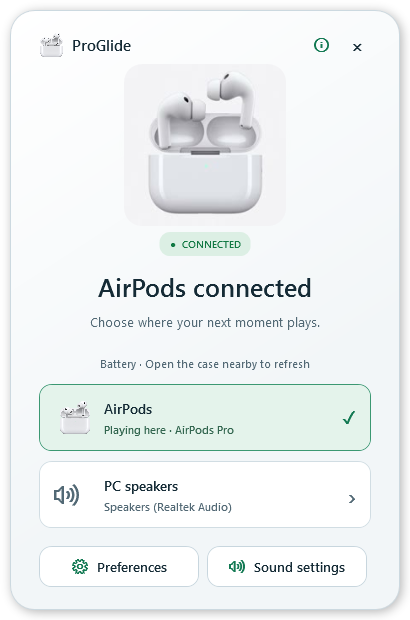
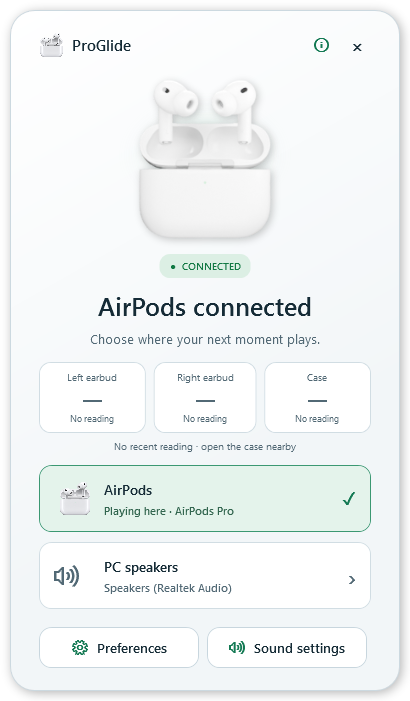
Polish transparent front animation, compact preferences and persistent battery cards

diff --git a/Program.cs b/Program.cs
@@ -159,8 +159,7 @@ namespace AirPodsSwitch
         void Populate(Popup view)
         {
             var reading = battery.Current();
-            view.Battery.Visibility = preferences.TrackBattery ? Visibility.Visible : Visibility.Collapsed;
-            view.Battery.Text = reading == null ? battery.Status : "Nearby AirPods battery · " + reading.Display();
+            view.Batteries.Update(reading, preferences.TrackBattery, battery.Status);
             var devices = audio.List(); string active = audio.Default(1);
             var pods = devices.Where(e => Matches(e, preferences)).ToList();
             var speakers = devices.FirstOrDefault(e => e.Id == preferences.SpeakersId);
@@ -196,15 +195,14 @@ namespace AirPodsSwitch
         internal void Settings()
         {
             if (settings != null) { settings.Activate(); return; }
-            settings = new Window { Title = "ProGlide · Preferences", Width = 540, Height = Math.Min(880, SystemParameters.WorkArea.Height - 40), MinWidth = 480, MinHeight = 560, WindowStartupLocation = WindowStartupLocation.CenterScreen };
+            settings = new Window { Title = "ProGlide · Preferences", Width = 560, Height = Math.Min(670, SystemParameters.WorkArea.Height - 40), MinWidth = 500, MinHeight = 540, WindowStartupLocation = WindowStartupLocation.CenterScreen };
             Theme.Window(settings);
-            var stack = new StackPanel { Margin = new Thickness(32, 24, 32, 32) };
+            var stack = new StackPanel { Margin = new Thickness(24, 18, 24, 20) };
             settings.Content = new ScrollViewer { Content = stack, VerticalScrollBarVisibility = ScrollBarVisibility.Auto };
-            var brand = new DockPanel(); var art = Theme.Product(66); DockPanel.SetDock(art, Dock.Right); brand.Children.Add(art);
+            var brand = new DockPanel(); var art = Theme.Product(44); DockPanel.SetDock(art, Dock.Right); brand.Children.Add(art);
             var heading = new StackPanel(); heading.Children.Add(Theme.Wordmark(15));
-            var pageTitle = Theme.Text("Make it yours.", 30, Theme.Ink); pageTitle.FontWeight = FontWeights.SemiBold; pageTitle.Margin = new Thickness(0, 6, 0, 0); heading.Children.Add(pageTitle); brand.Children.Add(heading); stack.Children.Add(brand);
-            var intro = Theme.Text("Your devices. Your listening flow.", 13, Theme.Muted); intro.Margin = new Thickness(0, 8, 0, 12); stack.Children.Add(intro);
-            Action<string> label = text => stack.Children.Add(new TextBlock { Text = text, Foreground = Theme.Muted, FontSize = 12, FontWeight = FontWeights.SemiBold, Margin = new Thickness(0, 19, 0, 8), TextWrapping = TextWrapping.Wrap });
+            var pageTitle = Theme.Text("Preferences", 25, Theme.Ink); pageTitle.FontWeight = FontWeights.SemiBold; pageTitle.Margin = new Thickness(0, 3, 0, 0); heading.Children.Add(pageTitle); brand.Children.Add(heading); stack.Children.Add(brand);
+            Action<string> label = text => stack.Children.Add(new TextBlock { Text = text, Foreground = Theme.Muted, FontSize = 11, FontWeight = FontWeights.SemiBold, Margin = new Thickness(0, 11, 0, 6), TextWrapping = TextWrapping.Wrap });
             List<Endpoint> devices;
             try { devices = audio.List(); } catch (Exception e) { MessageBox.Show(e.Message); settings = null; return; }
             label("AIRPODS OUTPUT");
@@ -212,9 +210,10 @@ namespace AirPodsSwitch
             podChoices.AddRange(devices);
             if (!string.IsNullOrEmpty(preferences.AirPodsId) && !devices.Any(d => d.Id == preferences.AirPodsId)) podChoices.Add(new Endpoint { Id = preferences.AirPodsId, Name = "Saved AirPods (currently unavailable)" });
             var pods = new ComboBox { ItemsSource = podChoices, SelectedItem = podChoices.FirstOrDefault(d => d.Id == preferences.AirPodsId) }; Theme.Selector(pods); stack.Children.Add(pods);
-            label("DETECT BY NAME");
-            var match = new TextBox { Text = preferences.Match, Padding = new Thickness(11, 9, 11, 9), Background = Theme.Surface, Foreground = Theme.Ink, CaretBrush = Theme.Mint, BorderBrush = Theme.Brush("#34434E"), SelectionBrush = Theme.Brush("#385D4F") }; stack.Children.Add(match);
-            var hint = Theme.Text("Used only when “Detect by name” is selected above.", 11, Theme.Muted); hint.Margin = new Thickness(0, 6, 0, 0); stack.Children.Add(hint);
+            var matching = new StackPanel();
+            var match = new TextBox { Text = preferences.Match, Padding = new Thickness(11, 7, 11, 7), Background = Theme.Surface, Foreground = Theme.Ink, CaretBrush = Theme.Mint, BorderBrush = Theme.Brush("#34434E"), SelectionBrush = Theme.Brush("#385D4F") }; matching.Children.Add(match);
+            var hint = Theme.Text("Used when “Detect by name” is selected.", 10, Theme.Muted); hint.Margin = new Thickness(0, 5, 0, 0); matching.Children.Add(hint);
+            var advanced = new Expander { Header = "Name matching (optional)", Foreground = Theme.Muted, FontSize = 11, Content = matching, Margin = new Thickness(0, 8, 0, 0), IsExpanded = false }; stack.Children.Add(advanced);
             label("PC SPEAKERS");
             var choices = new List<Endpoint> { new Endpoint { Id = "", Name = "Choose an output…" } }; choices.AddRange(devices);
             if (!string.IsNullOrEmpty(preferences.SpeakersId) && !devices.Any(d => d.Id == preferences.SpeakersId)) choices.Add(new Endpoint { Id = preferences.SpeakersId, Name = "Saved speakers (currently unavailable)" });
@@ -223,13 +222,13 @@ namespace AirPodsSwitch
             var auto = new CheckBox { Content = "Switch to AirPods when they connect", Foreground = Theme.Ink, IsChecked = preferences.AutoSwitch, Margin = new Thickness(0, 4, 0, 6) }; Theme.Toggle(auto); stack.Children.Add(auto);
             var startup = new CheckBox { Content = "Launch quietly when I sign in", Foreground = Theme.Ink, IsChecked = StartupEnabled() }; Theme.Toggle(startup); stack.Children.Add(startup);
             var motion = new CheckBox { Content = "Animate connection popup", Foreground = Theme.Ink, IsChecked = preferences.AnimatePopup, Margin = new Thickness(0, 6, 0, 0), ToolTip = "ProGlide spring animation. Turn off for reduced motion." }; Theme.Toggle(motion); stack.Children.Add(motion);
-            label("APPEARANCE");
-            var appearance = new ComboBox { ItemsSource = new[] { "Dark", "Light" }, SelectedItem = preferences.ThemeName == "Light" ? "Light" : "Dark" }; Theme.Selector(appearance); stack.Children.Add(appearance);
+            var appearanceRow = new DockPanel { Margin = new Thickness(0, 10, 0, 0) };
+            var appearance = new ComboBox { ItemsSource = new[] { "Dark", "Light" }, SelectedItem = preferences.ThemeName == "Light" ? "Light" : "Dark", Width = 160 }; Theme.Selector(appearance); DockPanel.SetDock(appearance, Dock.Right); appearanceRow.Children.Add(appearance); var appearanceLabel = Theme.Text("Appearance", 13, Theme.Ink); appearanceLabel.VerticalAlignment = VerticalAlignment.Center; appearanceRow.Children.Add(appearanceLabel); stack.Children.Add(appearanceRow);
             AppearanceSelector = appearance;
             appearance.SelectionChanged += (s, e) => { Theme.Apply((string)appearance.SelectedItem); };
             var tracking = new CheckBox { Content = "Read nearby AirPods battery", Foreground = Theme.Ink, IsChecked = preferences.TrackBattery, Margin = new Thickness(0, 14, 0, 0), ToolTip = "Nearby broadcasts report in 10% steps and may belong to another pair. No Bluetooth address is saved." }; Theme.Toggle(tracking); stack.Children.Add(tracking);
-            var note = Theme.Text("Changes your playback output, including calls. Disconnecting lets Windows choose a fallback.", 12, Theme.Muted); note.Margin = new Thickness(0, 20, 0, 16); stack.Children.Add(note);
-            stack.Children.Add(Theme.Button("Save preferences", () =>
+            var note = Theme.Text("Playback output applies to media and calls.", 11, Theme.Muted); note.Margin = new Thickness(0, 12, 0, 12); stack.Children.Add(note);
+            var save = Theme.Button("Save preferences", () =>
             {
                 try
                 {
@@ -244,8 +243,9 @@ namespace AirPodsSwitch
                     preferences = next; battery.SetEnabled(preferences.TrackBattery); initialized = false; Refresh(); settings.Close();
                 }
                 catch (Exception e) { MessageBox.Show("Could not save settings: " + e.Message); }
-            }, true));
-            var aboutButton = Theme.IconButton("About ProGlide", "\uE946", About); aboutButton.Margin = new Thickness(0, 10, 0, 0); stack.Children.Add(aboutButton);
+            }, true);
+            var footer = new Grid(); footer.ColumnDefinitions.Add(new ColumnDefinition { Width = new GridLength(160) }); footer.ColumnDefinitions.Add(new ColumnDefinition());
+            var aboutButton = Theme.IconButton("About", "\uE946", About); aboutButton.Margin = new Thickness(0); footer.Children.Add(aboutButton); save.Margin = new Thickness(8, 0, 0, 0); Grid.SetColumn(save, 1); footer.Children.Add(save); stack.Children.Add(footer);
             settings.Closed += (s, e) => { Theme.Apply(preferences.ThemeName); settings = null; }; settings.Show();
         }
         const string RunKey = "Software\\Microsoft\\Windows\\CurrentVersion\\Run";
@@ -284,8 +284,8 @@ namespace AirPodsSwitch
         public readonly StackPanel Outputs = new StackPanel();
         public readonly StackPanel Footer = new StackPanel { Orientation = Orientation.Horizontal };
         public readonly TextBlock Connection = new TextBlock { Text = "○  NOT CONNECTED", Foreground = Theme.Muted, FontSize = 10, FontWeight = FontWeights.SemiBold };
-        public readonly TextBlock Status = new TextBlock { Foreground = Theme.Muted, FontSize = 13, TextWrapping = TextWrapping.Wrap, TextAlignment = TextAlignment.Center, Margin = new Thickness(14, 9, 14, 24), LineHeight = 20 };
-        public readonly TextBlock Battery = new TextBlock { Foreground = Theme.Muted, FontSize = 11, TextWrapping = TextWrapping.Wrap, TextAlignment = TextAlignment.Center, Margin = new Thickness(0, 0, 0, 14), ToolTip = "Nearby broadcasts: device identity is unverified. Levels arrive in 10% steps and expire after 60 seconds. Open the case nearby to refresh." };
+        public readonly TextBlock Status = new TextBlock { Foreground = Theme.Muted, FontSize = 13, TextWrapping = TextWrapping.Wrap, TextAlignment = TextAlignment.Center, Margin = new Thickness(10, 7, 10, 12), LineHeight = 20 };
+        public readonly BatteryView Batteries = new BatteryView();
         readonly AirPodsCase caseArt = new AirPodsCase();
         Border badge;
         bool connected;
@@ -321,13 +321,13 @@ namespace AirPodsSwitch
             DockPanel.SetDock(close, Dock.Right); header.Children.Add(close);
             var info = Theme.Button("", () => { if (about != null) about(); }, false); info.Content = Theme.Glyph("\uE946", 15); info.Width = 30; info.Height = 28; info.Padding = new Thickness(0); info.Margin = new Thickness(0, 0, 6, 0); info.BorderThickness = new Thickness(0); info.Background = Brushes.Transparent; info.ToolTip = "About ProGlide"; System.Windows.Automation.AutomationProperties.SetName(info, "About ProGlide"); DockPanel.SetDock(info, Dock.Right); header.Children.Add(info);
             header.Children.Add(Theme.Wordmark(15)); content.Children.Add(header);
-            var hero = new Grid { Height = 164, Margin = new Thickness(0, 4, 0, 5) };
+            var hero = new Grid { Height = 190, Margin = new Thickness(0, 1, 0, 4) };
             hero.Children.Add(new System.Windows.Shapes.Ellipse { Width = 180, Height = 130, Fill = new RadialGradientBrush(Color.FromArgb(90, 85, 155, 128), Colors.Transparent) });
-            var product = new Viewbox { Child = caseArt, Width = 180, Height = 164, Stretch = Stretch.Uniform }; hero.Children.Add(product); content.Children.Add(hero);
-            badge = new Border { Child = Connection, HorizontalAlignment = HorizontalAlignment.Center, Background = Theme.Brush("#3F2229"), CornerRadius = new CornerRadius(10), Padding = new Thickness(10, 6, 10, 6), Margin = new Thickness(0, 0, 0, 13) }; content.Children.Add(badge);
+            var product = new Viewbox { Child = caseArt, Width = 240, Height = 190, Stretch = Stretch.Uniform, Effect = new System.Windows.Media.Effects.DropShadowEffect { BlurRadius = 12, ShadowDepth = 3, Opacity = .22, Color = Colors.Black, RenderingBias = System.Windows.Media.Effects.RenderingBias.Quality } }; hero.Children.Add(product); content.Children.Add(hero);
+            badge = new Border { Child = Connection, HorizontalAlignment = HorizontalAlignment.Center, Background = Theme.Brush("#3F2229"), CornerRadius = new CornerRadius(10), Padding = new Thickness(10, 6, 10, 6), Margin = new Thickness(0, 0, 0, 10) }; content.Children.Add(badge);
             SetConnection(title == "AirPods connected");
             var headline = Theme.Text(title, 25, Theme.Ink); headline.FontWeight = FontWeights.SemiBold; headline.TextAlignment = TextAlignment.Center; content.Children.Add(headline);
-            content.Children.Add(Status); content.Children.Add(Battery); content.Children.Add(Outputs); content.Children.Add(Footer);
+            content.Children.Add(Status); content.Children.Add(Batteries); content.Children.Add(Outputs); content.Children.Add(Footer);
             Footer.Margin = new Thickness(0, 8, 0, 0);
             var background = new LinearGradientBrush(); background.StartPoint = new Point(0, 0); background.EndPoint = new Point(1, 1);
             var topColor = new GradientStop { Offset = 0 }; System.Windows.Data.BindingOperations.SetBinding(topColor, GradientStop.ColorProperty, new System.Windows.Data.Binding("Color") { Source = Theme.Brush("#202B30") }); background.GradientStops.Add(topColor);

diff --git a/Battery.cs b/Battery.cs
@@ -11,6 +11,7 @@ namespace AirPodsSwitch
         public int Left = -1, Right = -1, Case = -1;
         public bool LeftCharging, RightCharging, CaseCharging;
         public DateTime Seen;
+        public DateTime LeftSeen, RightSeen, CaseSeen;
         public short Signal;
         public string Model;
         static string Value(int value, bool charging) { return value < 0 ? "—" : value + "%" + (charging ? " ⚡" : ""); }
@@ -55,6 +56,13 @@ namespace AirPodsSwitch
                         if (!enabled) return;
                         // Broadcast addresses can rotate. This cannot prove ownership of the nearby pair.
                         if (latest != null && address != args.BluetoothAddress && (DateTime.UtcNow - latest.Seen).TotalSeconds < 10 && reading.Signal < latest.Signal + 8) continue;
+                        if (latest != null && address == args.BluetoothAddress && latest.Model == reading.Model)
+                        {
+                            var now = DateTime.UtcNow;
+                            if (reading.Left < 0 && (now - latest.LeftSeen).TotalSeconds <= 60) { reading.Left = latest.Left; reading.LeftSeen = latest.LeftSeen; reading.LeftCharging = latest.LeftCharging; }
+                            if (reading.Right < 0 && (now - latest.RightSeen).TotalSeconds <= 60) { reading.Right = latest.Right; reading.RightSeen = latest.RightSeen; reading.RightCharging = latest.RightCharging; }
+                            if (reading.Case < 0 && (now - latest.CaseSeen).TotalSeconds <= 60) { reading.Case = latest.Case; reading.CaseSeen = latest.CaseSeen; reading.CaseCharging = latest.CaseCharging; }
+                        }
                         latest = reading; address = args.BluetoothAddress;
                     }
                 }
@@ -63,7 +71,17 @@ namespace AirPodsSwitch
         }
         public BatteryReading Current()
         {
-            lock (gate) return enabled && latest != null && (DateTime.UtcNow - latest.Seen).TotalSeconds <= 60 ? latest : null;
+            lock (gate)
+            {
+                if (!enabled || latest == null || (DateTime.UtcNow - latest.Seen).TotalSeconds > 60) return null;
+                var now = DateTime.UtcNow;
+                return new BatteryReading { Model = latest.Model, Signal = latest.Signal, Seen = latest.Seen,
+                    Left = (now - latest.LeftSeen).TotalSeconds <= 60 ? latest.Left : -1,
+                    Right = (now - latest.RightSeen).TotalSeconds <= 60 ? latest.Right : -1,
+                    Case = (now - latest.CaseSeen).TotalSeconds <= 60 ? latest.Case : -1,
+                    LeftCharging = latest.LeftCharging, RightCharging = latest.RightCharging, CaseCharging = latest.CaseCharging,
+                    LeftSeen = latest.LeftSeen, RightSeen = latest.RightSeen, CaseSeen = latest.CaseSeen };
+            }
         }
         public static BatteryReading Decode(byte[] data, short signal)
         {
@@ -85,6 +103,9 @@ namespace AirPodsSwitch
                 LeftCharging = (charging & (swapped ? 2 : 1)) != 0, RightCharging = (charging & (swapped ? 1 : 2)) != 0, CaseCharging = (charging & 4) != 0,
                 Seen = DateTime.UtcNow, Signal = signal
             };
+            result.LeftSeen = result.Left >= 0 ? result.Seen : DateTime.MinValue;
+            result.RightSeen = result.Right >= 0 ? result.Seen : DateTime.MinValue;
+            result.CaseSeen = result.Case >= 0 ? result.Seen : DateTime.MinValue;
             return result.Left < 0 && result.Right < 0 && result.Case < 0 ? null : result;
         }
         static int Percent(int value) { return value <= 10 ? value * 10 : -1; }

diff --git a/BatteryView.cs b/BatteryView.cs
@@ -1,0 +1,45 @@
+using System;
+using System.Windows;
+using System.Windows.Controls;
+
+namespace AirPodsSwitch
+{
+    public sealed class BatteryView : StackPanel
+    {
+        readonly TextBlock[] values = new TextBlock[3];
+        readonly TextBlock[] details = new TextBlock[3];
+        readonly TextBlock caption = Theme.Text("Waiting for a battery reading…", 10, Theme.Muted);
+        public BatteryView()
+        {
+            Margin = new Thickness(0, 0, 0, 13);
+            var grid = new Grid();
+            var names = new[] { "Left earbud", "Right earbud", "Case" };
+            for (int i = 0; i < 3; i++)
+            {
+                grid.ColumnDefinitions.Add(new ColumnDefinition());
+                var stack = new StackPanel { Margin = new Thickness(10, 8, 10, 8) };
+                var name = Theme.Text(names[i], 10, Theme.Muted); name.TextAlignment = TextAlignment.Center; stack.Children.Add(name);
+                values[i] = Theme.Text("—", 19, Theme.Muted); values[i].FontWeight = FontWeights.SemiBold; values[i].TextAlignment = TextAlignment.Center; values[i].Margin = new Thickness(0, 3, 0, 1); stack.Children.Add(values[i]);
+                details[i] = Theme.Text("No reading", 9, Theme.Muted); details[i].TextAlignment = TextAlignment.Center; stack.Children.Add(details[i]);
+                var card = new Border { Background = Theme.Surface, CornerRadius = new CornerRadius(11), BorderBrush = Theme.Brush("#2C3944"), BorderThickness = new Thickness(1), Margin = new Thickness(i == 0 ? 0 : 4, 0, i == 2 ? 0 : 4, 0), Child = stack };
+                Grid.SetColumn(card, i); grid.Children.Add(card);
+            }
+            Children.Add(grid); caption.TextAlignment = TextAlignment.Center; caption.Margin = new Thickness(0, 7, 0, 0); Children.Add(caption);
+            ToolTip = "Nearby AirPods broadcasts: device ownership is unverified. Levels arrive in 10% steps. A dash means no recent reading for that component.";
+        }
+        public void Update(BatteryReading reading, bool enabled, string status)
+        {
+            var levels = reading == null ? new[] { -1, -1, -1 } : new[] { reading.Left, reading.Right, reading.Case };
+            var charging = reading == null ? new[] { false, false, false } : new[] { reading.LeftCharging, reading.RightCharging, reading.CaseCharging };
+            var times = reading == null ? new[] { DateTime.MinValue, DateTime.MinValue, DateTime.MinValue } : new[] { reading.LeftSeen, reading.RightSeen, reading.CaseSeen };
+            for (int i = 0; i < 3; i++)
+            {
+                values[i].Text = levels[i] < 0 ? "—" : levels[i] + "%";
+                values[i].Foreground = levels[i] < 0 ? Theme.Muted : levels[i] <= 20 ? Theme.Brush("#FF989F") : Theme.Brush("#79DEA6");
+                details[i].Text = levels[i] < 0 ? "No reading" : charging[i] ? "⚡ Charging" : times[i] == DateTime.MinValue ? "Reported" : Math.Max(0, (int)(DateTime.UtcNow - times[i]).TotalSeconds) + "s ago";
+            }
+            caption.Text = !enabled ? "Battery scanning off · enable in Preferences" : reading == null ? "No recent reading · open the case nearby" : "Nearby AirPods · " + Math.Max(0, (int)(DateTime.UtcNow - reading.Seen).TotalSeconds) + "s ago · device unverified";
+            if (enabled && reading == null && status.IndexOf("unavailable", StringComparison.OrdinalIgnoreCase) >= 0) caption.Text = "Bluetooth battery scanning unavailable";
+        }
+    }
+}

diff --git a/AirPodsCase.cs b/AirPodsCase.cs
@@ -6,21 +6,21 @@ using System.Windows.Media.Imaging;
 
 namespace AirPodsSwitch
 {
-    // Frames extracted from Apple's verified AirPods Pro 3 case movie.
-    // See ARTWORK-PROVENANCE.md. No product geometry is redrawn or generated.
+    // Transparent front-camera renders of Apple's original AirPods Pro 3 USDZ model.
+    // The model is original; camera, lighting and the hinge animation are app-authored.
     public sealed class AirPodsCase : FrameworkElement
     {
         public static readonly DependencyProperty OpenProgressProperty = DependencyProperty.Register("OpenProgress", typeof(double), typeof(AirPodsCase), new FrameworkPropertyMetadata(0.0, FrameworkPropertyMetadataOptions.AffectsRender));
         public double OpenProgress { get { return (double)GetValue(OpenProgressProperty); } set { SetValue(OpenProgressProperty, value); } }
-        const int FrameCount = 49;
+        const int FrameCount = 41;
         static readonly BitmapImage[] frames = LoadFrames();
         static BitmapImage[] LoadFrames()
         {
             var result = new BitmapImage[FrameCount];
-            for (int i = 0; i < FrameCount; i++) result[i] = Theme.Asset("Pro3CaseFrame" + (i + 1).ToString("D3") + ".jpg");
+            for (int i = 0; i < FrameCount; i++) result[i] = Theme.Asset("Pro3FrontFrame" + (i + 1).ToString("D3") + ".png");
             return result;
         }
-        public AirPodsCase() { Width = 200; Height = 180; }
+        public AirPodsCase() { Width = 224; Height = 224; }
         public void Present(bool connected, bool animate, bool transition)
         {
             double destination = connected ? 1 : 0;
@@ -33,9 +33,7 @@ namespace AirPodsSwitch
         {
             base.OnRender(drawing);
             int index = (int)Math.Round(Math.Max(0, Math.Min(1, OpenProgress)) * (FrameCount - 1));
-            var bounds = new Rect(10, 0, 180, 180);
-            drawing.PushClip(new RectangleGeometry(bounds, 20, 20));
-            drawing.DrawImage(frames[index], bounds); drawing.Pop();
+            drawing.DrawImage(frames[index], new Rect(0, 0, 224, 224));
         }
     }
 }

diff --git a/About.cs b/About.cs
@@ -17,7 +17,7 @@ namespace AirPodsSwitch
             Content = new ScrollViewer { Content = stack, VerticalScrollBarVisibility = ScrollBarVisibility.Auto };
             var art = Theme.Product(94); art.HorizontalAlignment = HorizontalAlignment.Center; stack.Children.Add(art);
             var title = Theme.Text("ProGlide", 32, Theme.Ink); title.FontWeight = FontWeights.SemiBold; title.TextAlignment = TextAlignment.Center; stack.Children.Add(title);
-            var subtitle = Theme.Text("Your sound, one tap away.  ·  Version 1.3", 12, Theme.Muted); subtitle.TextAlignment = TextAlignment.Center; subtitle.Margin = new Thickness(0, 6, 0, 23); stack.Children.Add(subtitle);
+            var subtitle = Theme.Text("Your sound, one tap away.  ·  Version 1.4", 12, Theme.Muted); subtitle.TextAlignment = TextAlignment.Center; subtitle.Margin = new Thickness(0, 6, 0, 23); stack.Children.Add(subtitle);
             var credit = new StackPanel { Margin = new Thickness(16) };
             credit.Children.Add(Theme.Text("DESIGNED & DEVELOPED BY", 10, Theme.Muted));
             var name = Theme.Text("MD SOWROVE HOSSAIN", 17, Theme.Ink); name.FontWeight = FontWeights.SemiBold; name.Margin = new Thickness(0, 7, 0, 0); credit.Children.Add(name);

diff --git a/Diagnostics.cs b/Diagnostics.cs
@@ -97,7 +97,7 @@ namespace AirPodsSwitch
             view.Animate = false;
             view.Status.Text = connected ? "Choose where your next moment plays." : "Connect your AirPods, or keep listening on your PC.";
             view.SetConnection(connected);
-            view.Battery.Text = "Battery · Open the case nearby to refresh";
+            view.Batteries.Update(null, true, "Waiting for nearby AirPods…");
             view.Outputs.Children.Add(Theme.Device("AirPods", connected ? "Playing here · AirPods Pro" : "Connect your AirPods to use this output", true, connected, connected, () => { }));
             view.Outputs.Children.Add(Theme.Device("PC speakers", connected ? "Speakers (Realtek Audio)" : "Playing here · Speakers (Realtek Audio)", false, !connected, true, () => { }));
             var preferences = Theme.IconButton("Preferences", "\uE713", () => { }); preferences.Width = 160; preferences.Margin = new System.Windows.Thickness(0, 0, 8, 0); view.Footer.Children.Add(preferences);

diff --git a/ARTWORK-PROVENANCE.md b/ARTWORK-PROVENANCE.md
@@ -1,27 +1,21 @@
-# Verified AirPods Pro 3 artwork
+# AirPods Pro 3 artwork provenance — version 1.4
 
-Verified on November 17, 2026 from Apple's current AirPods Pro page:
+Source page: https://www.apple.com/airpods-pro/
 
-https://www.apple.com/airpods-pro/
+Original Apple Pro 3 USDZ model:
+https://www.apple.com/105/media/us/airpods-pro/2025/7acffb13-4adb-40b1-9393-8f1c99bc6c90/ar/airpods-pro.usdz
 
-The page labels the product as AirPods Pro 3. Its charging-case video uses this original source:
+Source SHA-256: e39e77471fb84c60c12d14f5449df4f0f4a0dffc281ba3f7ab1068db13164f2a
 
-https://www.apple.com/105/media/us/airpods-pro/2025/7acffb13-4adb-40b1-9393-8f1c99bc6c90/anim/case/small.mp4
+The app embeds 41 front-view RGBA PNG renders of the original model. Product meshes are not redrawn or AI generated. The camera, studio lighting and hinge/earbud motion are authored for ProGlide. The lid rotates about a rear hinge, while the earbuds lower into the case. Closing reverses the sequence. This is an animation of Apple's original model, not Apple's untouched product movie or private iPhone pairing animation.
 
[1 lines of base64/hex data omitted]
+Frames were rendered at 224x224 with a fixed front-facing camera orientation, gentle vertical centering, a transparent film background, path-traced lighting and denoising. Open, middle and closed poses were visually inspected. Background corner alpha was verified as zero. The app draws these images directly over the active theme; no white tile is painted.
 
-The app embeds 49 frames from the first 2.04 seconds. They are cropped, resized and JPEG-compressed for the popup. They are not redrawn, AI generated, recolored or assembled from an older generation. The source sequence starts with a closed case viewed from above, then opens the lid and raises the earbuds. The app plays these frames forward on connection and in reverse on disconnection. This is Apple's public product animation, not Apple's private iPhone pairing animation.
+The source USDZ is not included in the installer. Blender is a development-only rendering tool and is not an application dependency. The pre-rendered frames are embedded in the executable.
 
-Extraction command:
-
-```text
-ffmpeg -i Apple-Pro3-Case-original.mp4 -t 2.04 -vf "fps=24,crop=480:480:201:70,scale=192:192" -q:v 3 Pro3CaseFrame%03d.jpg
-```
-
-The app/tray icon and small product images use this separate original Pro 3 asset, also referenced on that page with AirPods Pro 3 alternative text:
-
+The app/tray icon still uses this separate original Pro 3 product asset:
 https://www.apple.com/v/airpods-pro/t/images/overview/battery/case__b87ou7jna9de_large.png
 
[1 lines of base64/hex data omitted]
+Source SHA-256: 4c09848596c99626d9f818cc408f0a394a93a4543efb118b726f45478b2df318
 
-The earlier custom WPF case illustration and first-generation icon asset are no longer used. Apple retains all rights to its artwork. These images are excluded from the application code's MIT license. See THIRD-PARTY-NOTICES.md.
+Apple retains rights to the model and imagery; those assets are excluded from the code's MIT license. Version 1.3's top-down movie frames are no longer used.

diff --git a/README.md b/README.md
@@ -1,10 +1,10 @@
-# ProGlide 1.3 Compact
+# ProGlide 1.4 Compact
 
 A small Windows 11 x64 tray app for AirPods audio switching, connection popups, and nearby AirPods battery broadcasts.
 
 ## Downloads and running
 
-- **ProGlide-1.3-Compact-Setup.exe**: offline per-user installer, Start menu/desktop shortcuts, optional startup and Windows uninstaller.
+- **ProGlide-1.4-Compact-Setup.exe**: offline per-user installer, Start menu/desktop shortcuts, optional startup and Windows uninstaller.
 - **ProGlide.exe**: the app itself, with all icons and artwork embedded. This single file can run directly and be shared.
 - **ProGlide-Compact-Portable.zip**: the app, licenses and a portable-mode marker. Extract first; settings stay in its Data folder.
 
@@ -61,10 +61,14 @@ The battery test runs for 20 seconds. Diagnostics does not switch audio by defau
 
 ## Technical limits and storage
 
-Detection uses active Windows playback endpoints, with notification debounce plus a recovery scan. It is not physical case-lid or ear-placement detection. The case animation plays cropped/resized frames from Apple's verified original AirPods Pro 3 product movie, forward or backward. It is not the private iPhone pairing animation. See ARTWORK-PROVENANCE.md for original URLs and source hashes.
+Detection uses active Windows playback endpoints, with notification debounce plus a recovery scan. It is not physical case-lid or ear-placement detection. The front-facing animation is rendered from Apple's original Pro 3 USDZ geometry with an app-authored hinge motion, camera and lighting. Frames have true alpha transparency, with no white image tile. It is not Apple's private pairing animation or an untouched Apple movie. See ARTWORK-PROVENANCE.md.
 
 Default playback switching affects console, multimedia and communications roles through undocumented IPolicyConfig. Windows updates can affect it; partial role changes are reported. Per-app routing and exclusive audio can ignore the default change. No microphone settings are changed. Disconnecting offers speakers rather than forcing a fallback.
 
 Installed/direct-exe settings: %LOCALAPPDATA%\AirPodsSwitch\settings.xml. The historical folder/value name preserves compatibility. A portable.flag beside the EXE instead uses Data beside the app. Error logs stay local and are not size-capped. Do not include Data when sharing a used portable copy. Startup uses the current user's Run value AirPodsSwitch.
 
 The app is unsigned and targets Windows 11 x64. No clean second PC or fresh Windows account was available for validation. See RELEASE-NOTES.md and local test reports for actual verification. The original code is MIT licensed; artwork and protocol references have separate notices in THIRD-PARTY-NOTICES.md.
+
+## Compact controls and battery cards (1.4)
+
+Preferences uses a shorter fixed-height window with expandable name matching and a shared About/Save footer. Battery states always appear as Left earbud, Right earbud and Case cards. Missing/expired values show a dash; scanning-off and unavailable states are explicit. Valid partial updates retain recent values from the same advertiser for up to 60 seconds, with per-component freshness.

diff --git a/RELEASE-NOTES.md b/RELEASE-NOTES.md
@@ -1,13 +1,11 @@
-# ProGlide 1.3 Compact — release notes
+# ProGlide 1.4 — transparent front-view polish
 
-- Retargeted to Windows' built-in .NET Framework 4.8. No bundled .NET 8 runtime, external image folder, driver or third-party runtime is needed.
-- The actual app is one executable with embedded artwork. The installer provides per-user shortcuts, optional sign-in startup and an uninstaller.
-- Verified Apple AirPods Pro 3 imagery replaces the custom case drawing and older-generation icon. Opening plays original product-animation frames forward; closing reverses them. Source URLs, hashes and extraction details are in ARTWORK-PROVENANCE.md.
-- This is Apple's public product animation, not its private iPhone pairing animation. Its closed view is top-down, as in the original footage.
-- Connected is green; disconnected/not connected is red. The ProGlide name appears with the Pro 3 icon.
-- Light and Dark preview through Preferences, with persistence on Save and restoration if closed unsaved. Official Gmail and Facebook icons identify contact links.
-- Optional nearby battery monitoring uses Windows Bluetooth LE APIs. Levels are reported in 10% steps, unknown components show a dash, and readings expire after 60 seconds. Another nearby pair can be detected; ownership is unverified.
-- A live scan observed a nearby AirPods Pro 3 broadcast: right 90%, left/case unavailable. This was not a simulated percentage.
-- Embedded-artwork app diagnostics, both animation directions and light/dark rendering were verified. A clean second PC and fresh Windows account remain untested.
+- Removed the top-down movie and its solid image background.
+- Uses transparent front-camera renders of Apple's original AirPods Pro 3 USDZ model. The model geometry is original; camera, lighting and hinge animation are app-authored. This is not an untouched Apple animation.
+- Stable product alignment and subtle edge shadow work in both Light and Dark themes.
+- Preferences is shorter, with expandable name matching and a combined About/Save footer.
+- Dedicated Left, Right and Case battery cards are always visible. Missing values show a dash and an explanation; disabled/unavailable scanning states are clear.
+- Partial battery packets preserve recent components from the same advertiser, with 60-second expiry and per-component age/charging labels. Broadcast ownership remains unverified.
+- The app remains a compact single executable using the .NET Framework built into Windows 11. No renderer, model-processing tool or bundled runtime is installed with it.
 
-Existing user audio preferences are retained under the historical AirPodsSwitch settings location. Older large 1.2 installers are superseded by the compact package. Previous releases' build/test artifacts remain historical rather than evidence about this final build.
+See ARTWORK-PROVENANCE.md for the model URL, hash and rendering details. Test reports record local verification; a clean second PC was not available.

diff --git a/LIMITATIONS.md b/LIMITATIONS.md
@@ -1,4 +1,4 @@
-# Limitations and verification — ProGlide 1.3 Compact
+# Limitations and verification — ProGlide 1.4 Compact
 
 Verified locally on Windows 11 x64. The app targets the .NET Framework 4.8 already supplied with Windows; no .NET 8 runtime is distributed. The single executable embeds its artwork. A separate clean PC was not available.
 
@@ -8,7 +8,7 @@ Verified locally on Windows 11 x64. The app targets the .NET Framework 4.8 alrea
 - Connection/disconnection is detected through active playback endpoints, not actual physical case lid or ear placement. Bluetooth driver timing can delay events.
 - Default playback changes use undocumented Windows IPolicyConfig for console, multimedia and communications roles. Partial role changes are possible on failure; per-app pinned outputs and exclusive streams can ignore default switching.
 - The popup uses the primary display's work area. Secondary displays, unusually high DPI and high-contrast modes require further manual testing.
-- Original Pro 3 product-animation frames were verified directly against Apple's page and source movie. Cropping/resizing preserves the product design. The source's closed-case view is top-down. This is not Apple's iPhone pairing animation. No physical lid telemetry is read.
+- Original Pro 3 geometry was imported from Apple's USDZ model and rendered from a front-facing camera with true transparency. Lighting and hinge motion are app-authored. This is not an untouched Apple animation. No physical lid telemetry is read.
 - The animation can be turned off. Theme changes preview instantly and only persist on Save.
 
 ## Battery

diff --git a/THIRD-PARTY-NOTICES.md b/THIRD-PARTY-NOTICES.md
@@ -29,7 +29,7 @@ PayPal and bKash retain their respective logo and trademark rights. The logos id
 
 https://www.apple.com/v/airpods-pro/t/images/overview/battery/case__b87ou7jna9de_large.png
 
-The case-animation frames are extracted from Apple's original Pro 3 movie:
+Version 1.3 used this original Pro 3 movie (no longer used by 1.4):
 
 https://www.apple.com/105/media/us/airpods-pro/2025/7acffb13-4adb-40b1-9393-8f1c99bc6c90/anim/case/small.mp4
 
@@ -40,3 +40,5 @@ See ARTWORK-PROVENANCE.md for source hashes and the crop/resize command. The cas
 ## Microsoft .NET runtime
 
 Older 1.2 releases bundled a Microsoft .NET 8 runtime with its own notices. The compact 1.3 release distributes no runtime; it uses the .NET Framework and Windows APIs supplied with Windows 11.
+
+Version 1.4 instead renders Apple's original Pro 3 USDZ model from a front-facing camera. See ARTWORK-PROVENANCE.md for the source, hash and distinction between the original model and app-authored motion.
